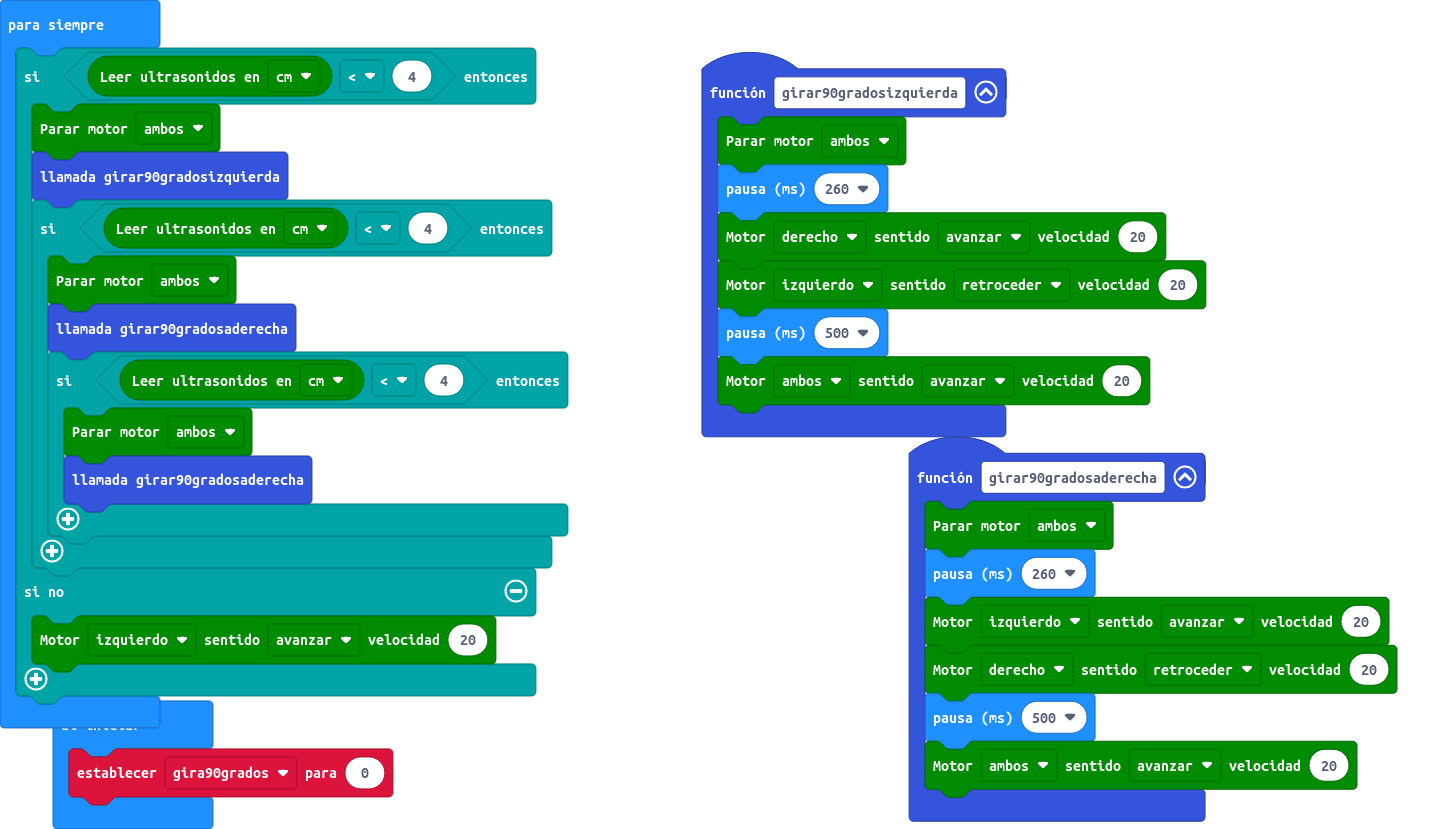
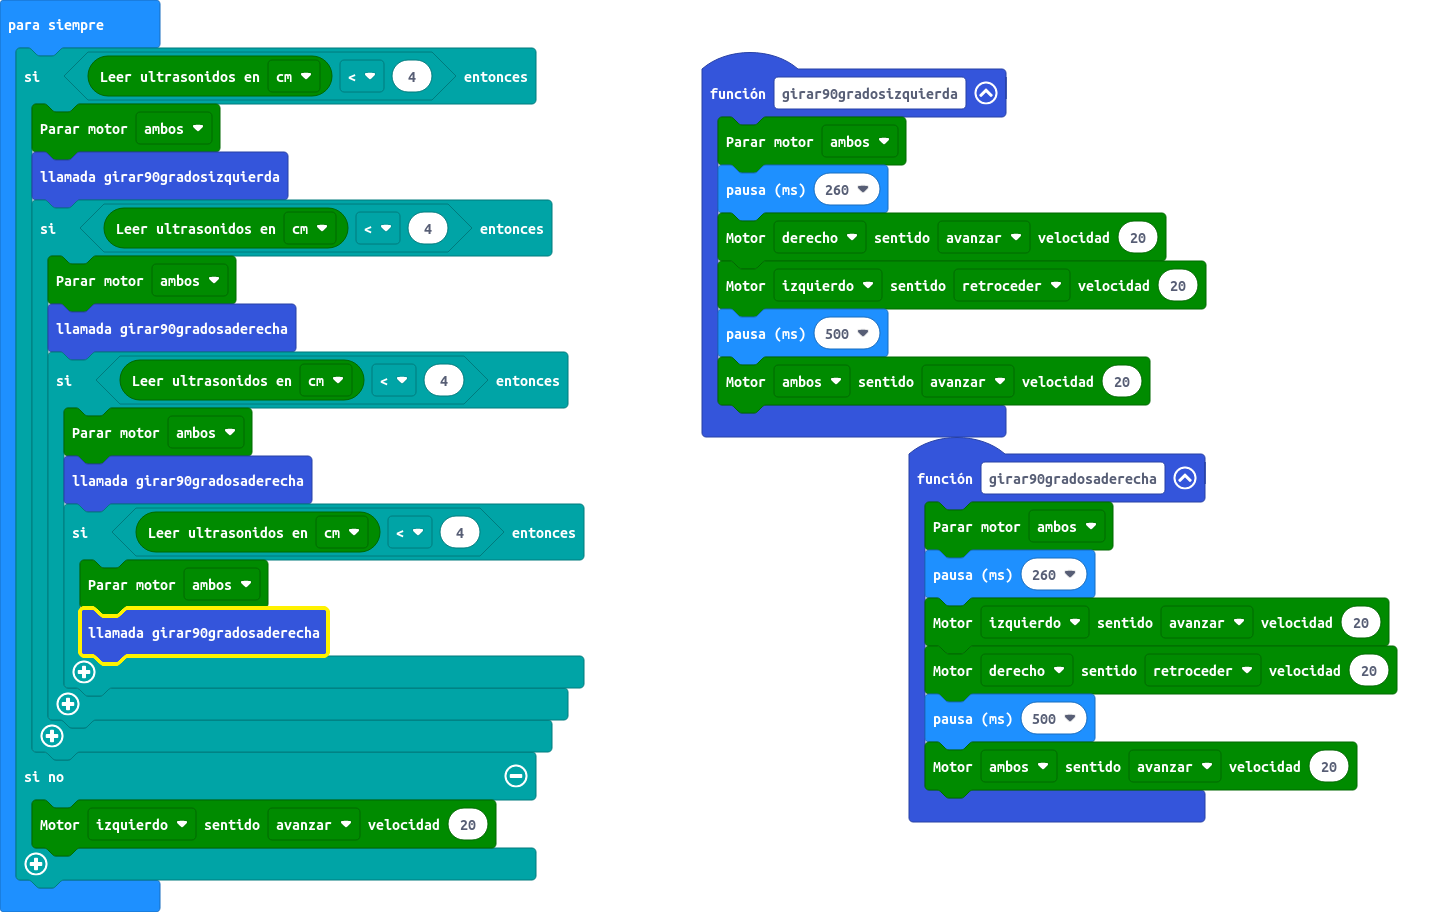
Actualizar main.blocks, main.ts

diff --git a/main.ts b/main.ts
@@ -25,6 +25,10 @@ basic.forever(function () {
             if (maqueen.Ultrasonic(PingUnit.Centimeters) < 4) {
                 maqueen.motorStop(maqueen.Motors.All)
                 girar90gradosaderecha()
+                if (maqueen.Ultrasonic(PingUnit.Centimeters) < 4) {
+                    maqueen.motorStop(maqueen.Motors.All)
+                    girar90gradosaderecha()
+                }
             }
         }
     } else {
